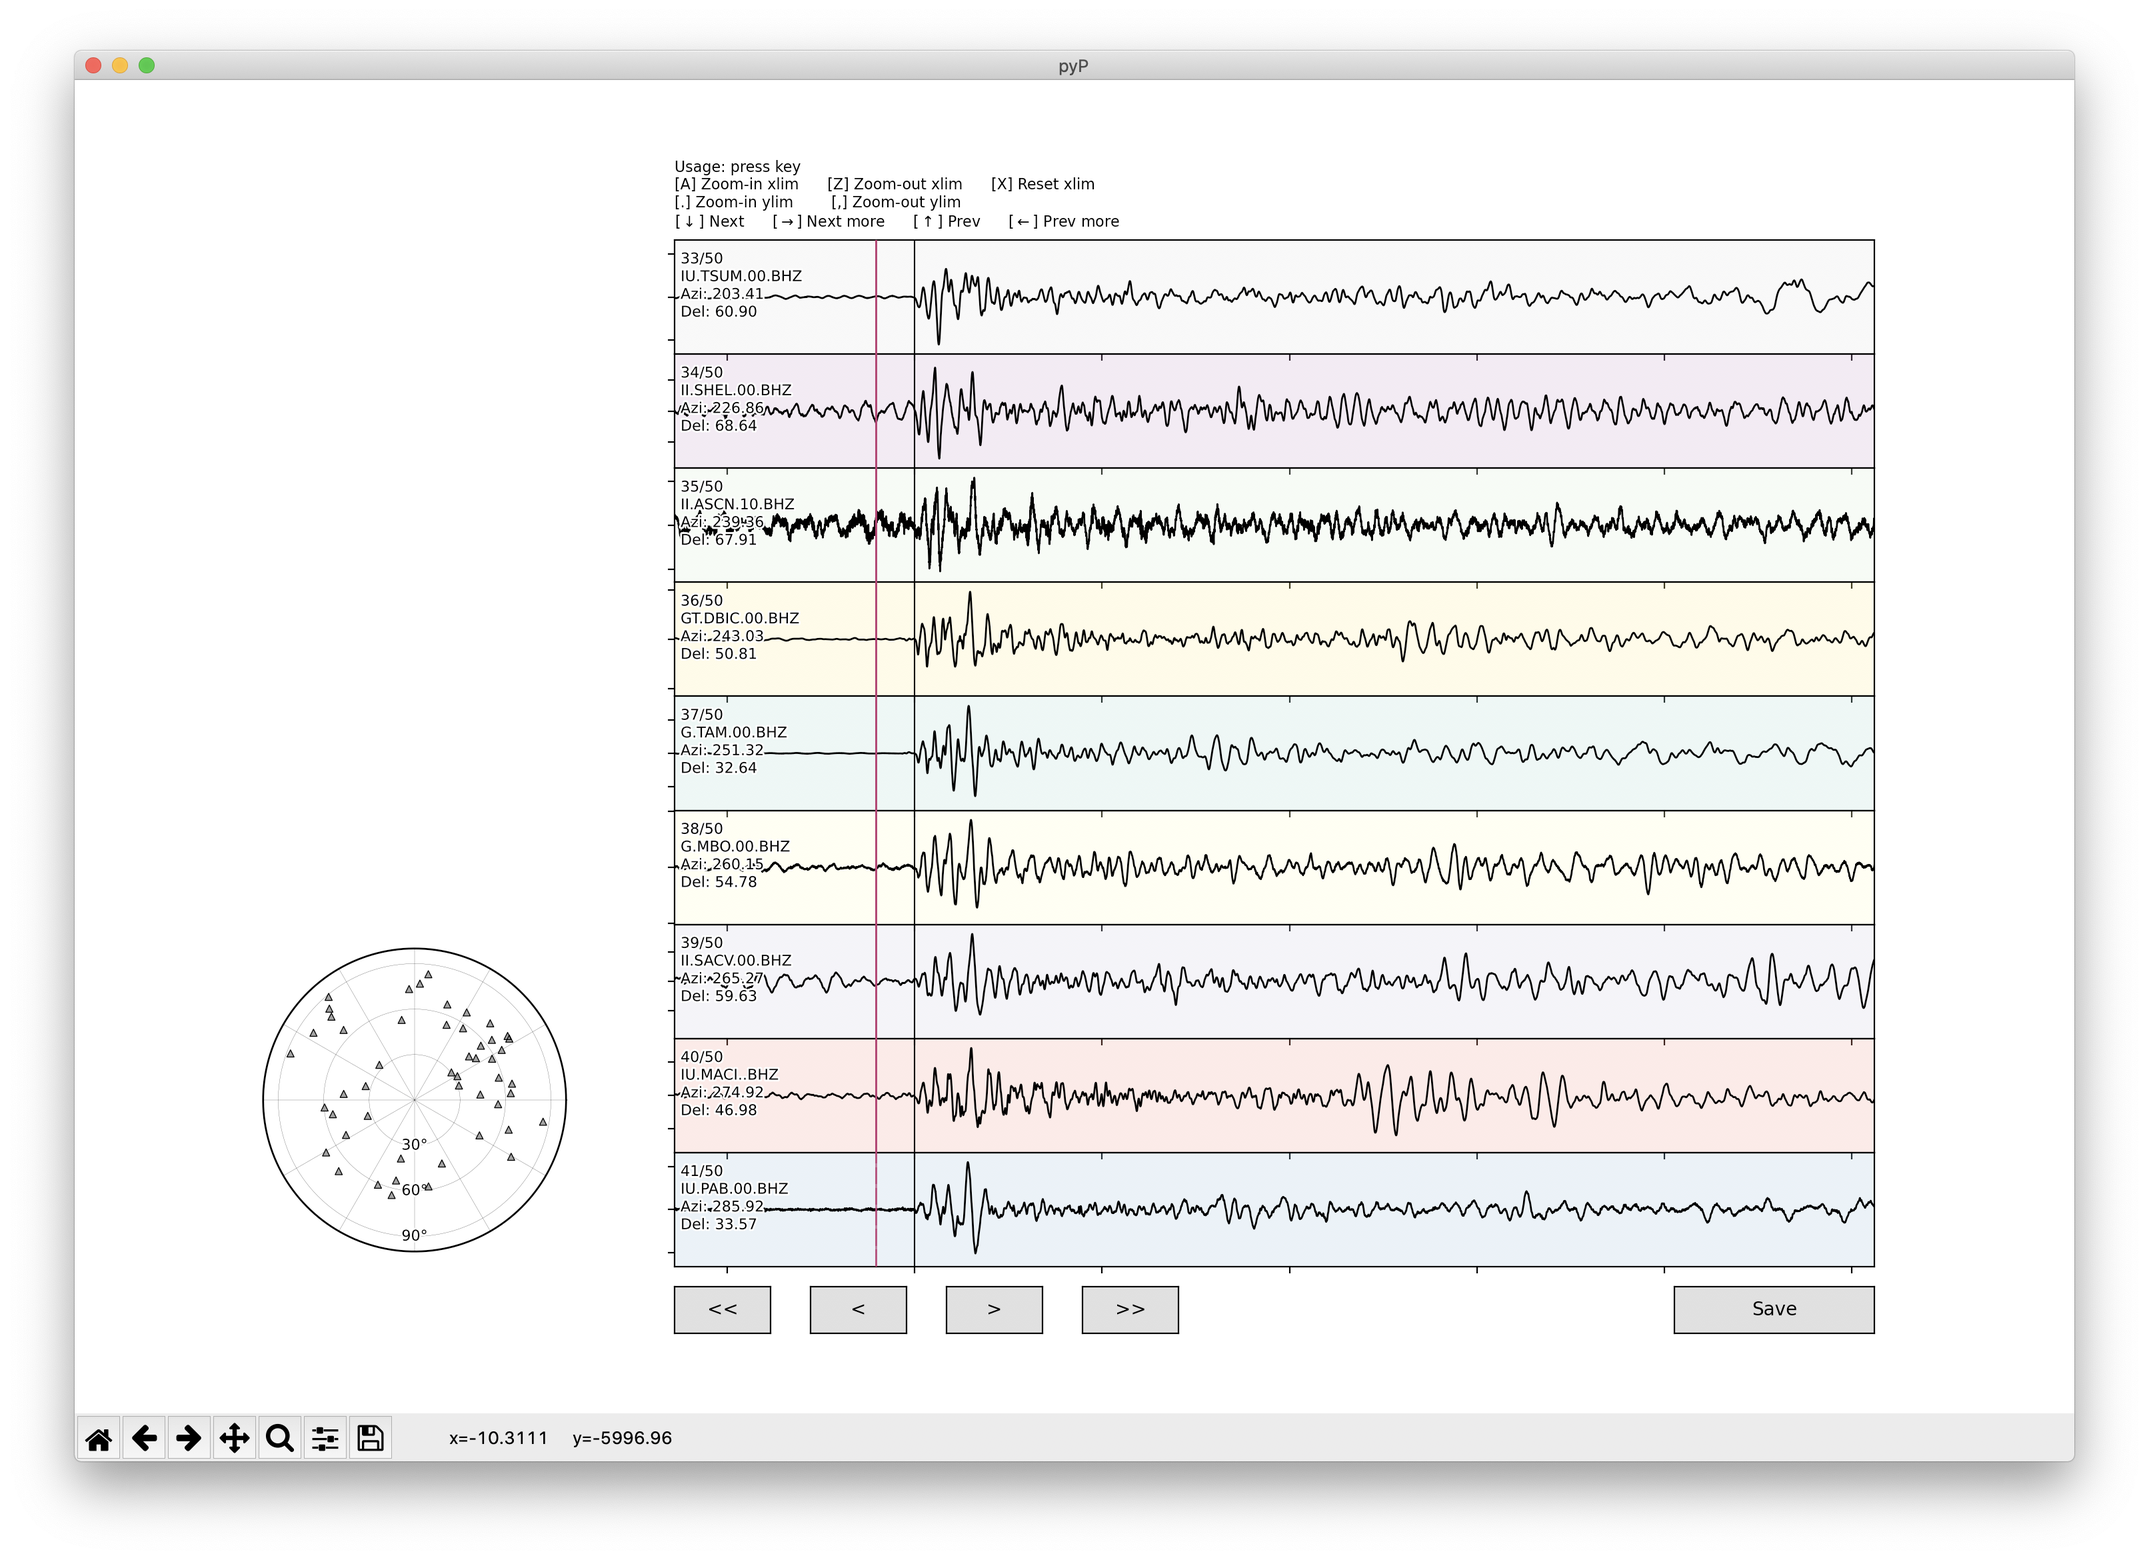
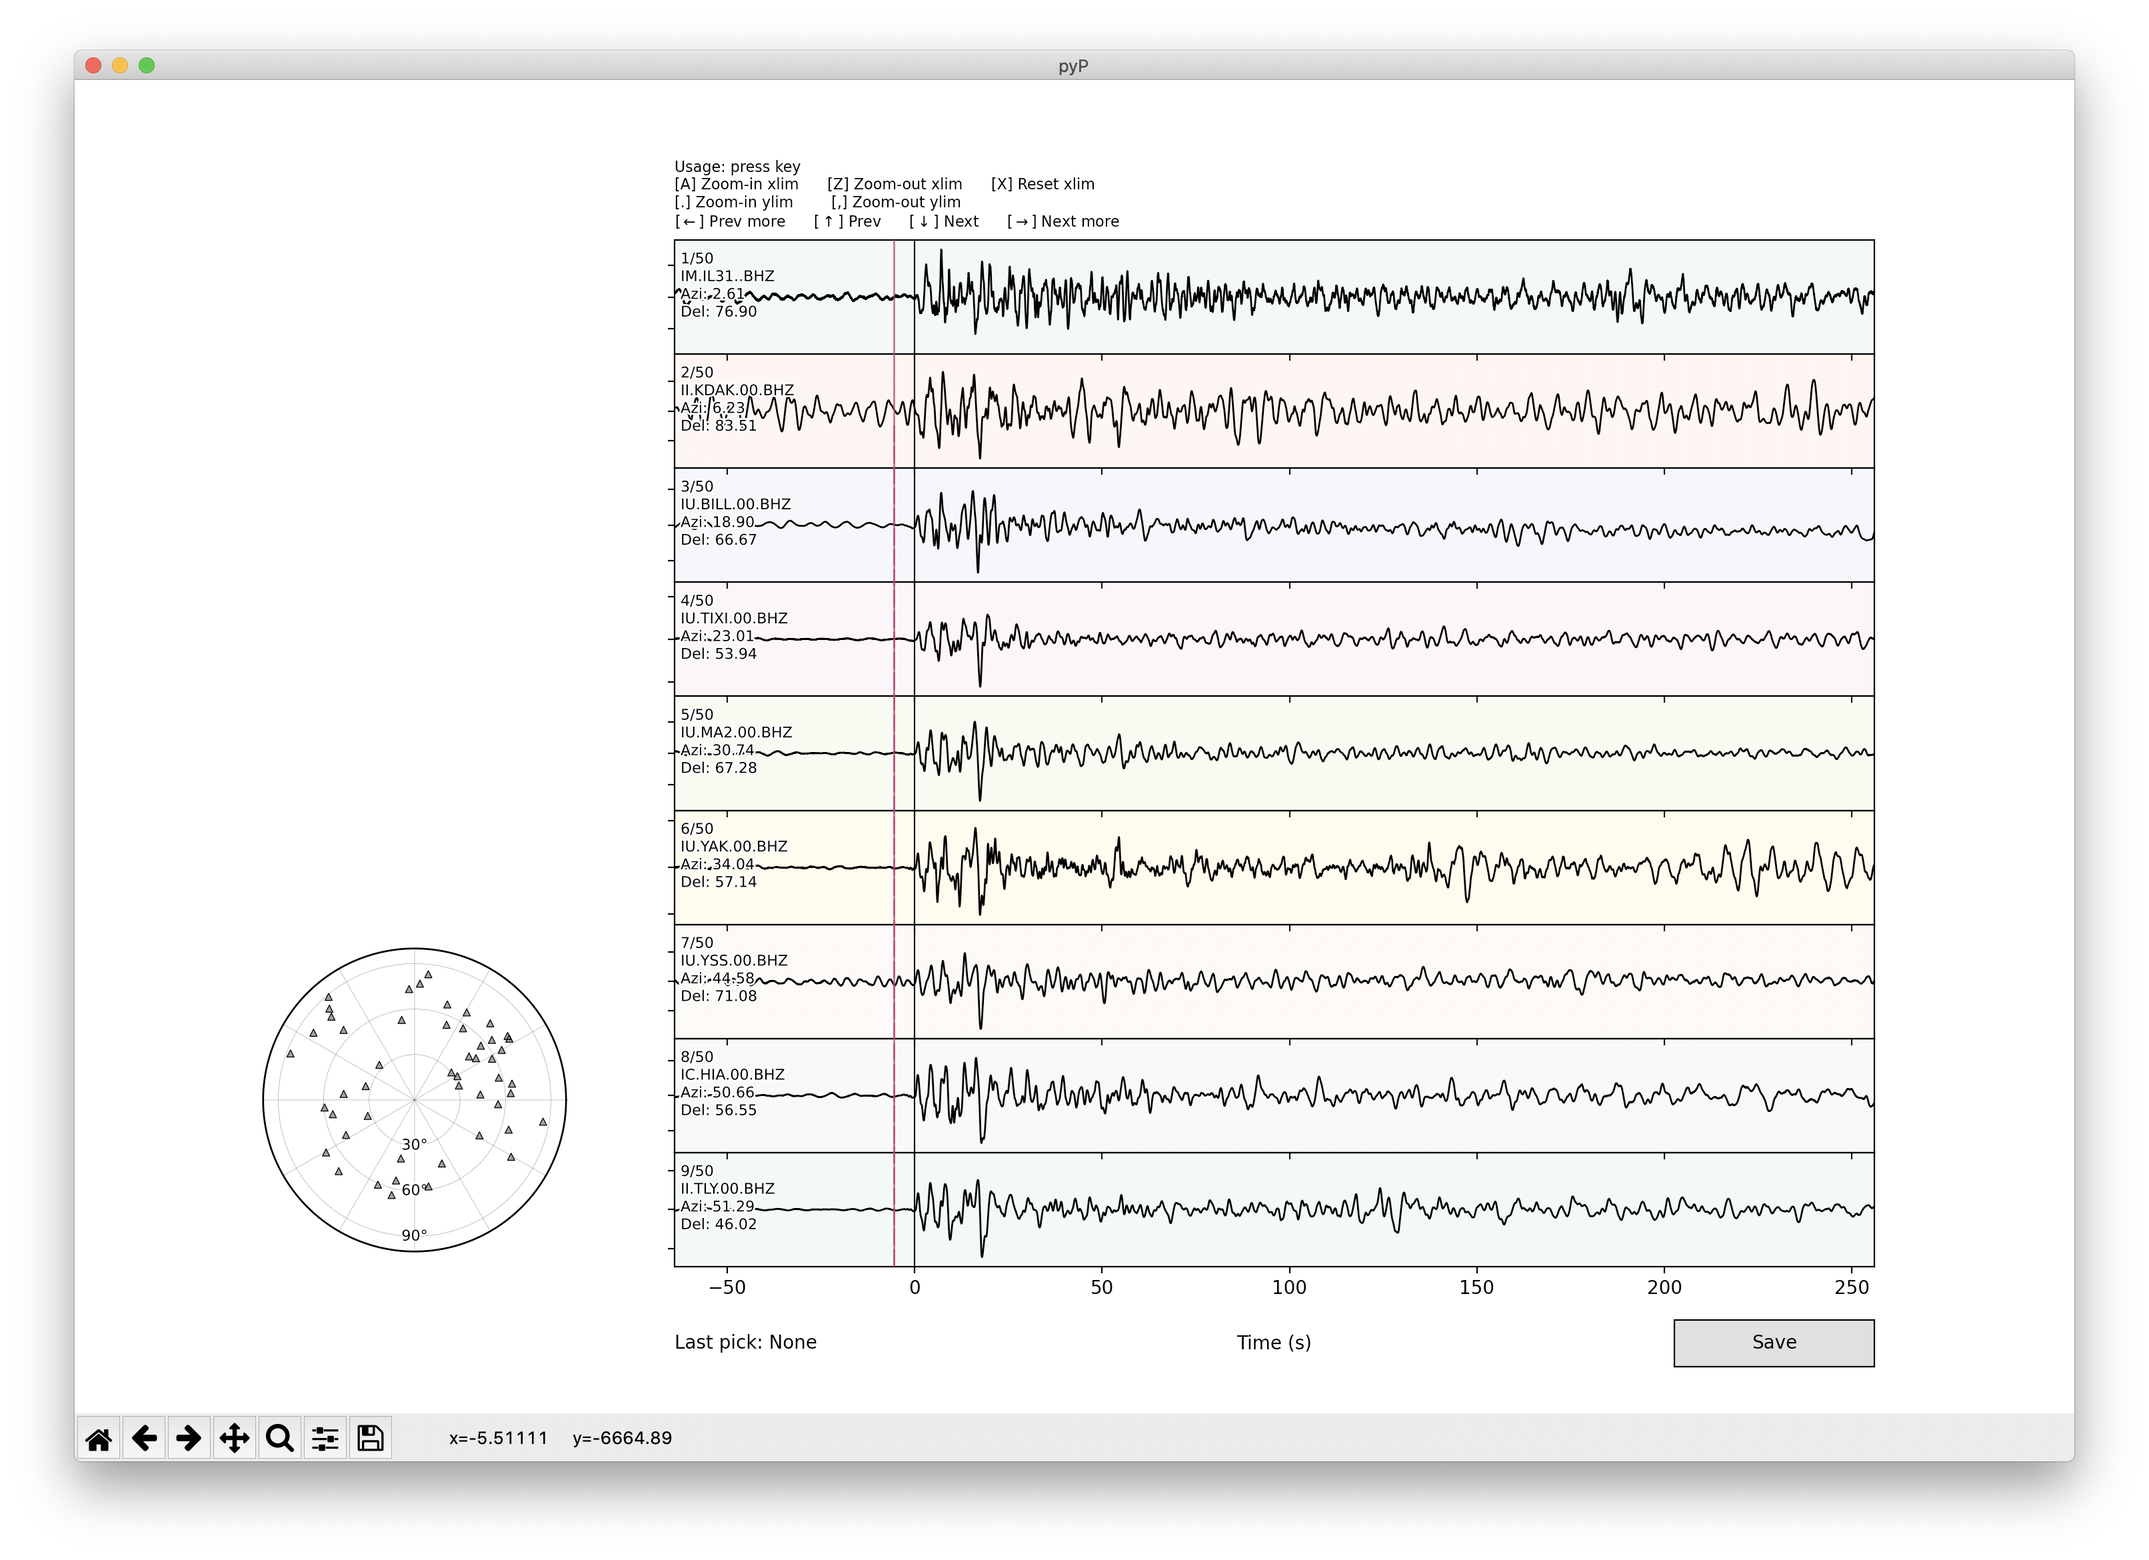
add screenshot

diff --git a/pyP.py b/pyP.py
@@ -8,70 +8,6 @@ class Index(object):
     Switch panel for the waveform traces by clcking the buttons
     '''
     ind = 0
-    def next(self, event):
-        self.ind += 1
-        if self.ind > totalnumtrace-1:
-            self.ind = 0
-        for ax in axs:
-            ax.set_visible(False)
-        axinit = self.ind
-        gsind = 0
-        for j in np.arange(axinit, axinit+worknumtrace, 1):
-            if j > totalnumtrace-1:
-                j = j - totalnumtrace
-            axs[j].set_visible(True)
-            axs[j].set_position(gs[gsind].get_position(fig))
-            gsind += 1
-        fig.canvas.draw()
-
-    def nextFurther(self, event):
-        self.ind += worknumtrace - 1
-        if self.ind > totalnumtrace-1:
-            self.ind = self.ind - totalnumtrace
-        for ax in axs:
-            ax.set_visible(False)
-        axinit = self.ind
-        gsind = 0
-        for j in np.arange(axinit, axinit+worknumtrace, 1):
-            if j > totalnumtrace-1:
-                j = j - totalnumtrace
-            axs[j].set_visible(True)
-            axs[j].set_position(gs[gsind].get_position(fig))
-            gsind += 1
-        fig.canvas.draw()
-
-    def prev(self, event):
-        self.ind -= 1
-        if self.ind < 0:
-            self.ind = totalnumtrace-1
-        for ax in axs:
-            ax.set_visible(False)
-        axinit = self.ind
-        gsind = 0
-        for j in np.arange(axinit, axinit+worknumtrace, 1):
-            if j > totalnumtrace-1:
-                j = j - totalnumtrace
-            axs[j].set_visible(True)
-            axs[j].set_position(gs[gsind].get_position(fig))
-            gsind += 1
-        fig.canvas.draw()
-
-    def prevFurther(self, event):
-        self.ind -= worknumtrace - 1
-        if self.ind < 0:
-            self.ind = self.ind + totalnumtrace
-        for ax in axs:
-            ax.set_visible(False)
-        axinit = self.ind
-        gsind = 0
-        for j in np.arange(axinit, axinit+worknumtrace, 1):
-            if j > totalnumtrace-1:
-                j = j - totalnumtrace
-            axs[j].set_visible(True)
-            axs[j].set_position(gs[gsind].get_position(fig))
-            gsind += 1
-        fig.canvas.draw()
-
     def nextKey(self, event):
         if event.key == 'down':
             self.ind += 1
@@ -79,6 +15,7 @@ class Index(object):
                 self.ind = 0
             for ax in axs:
                 ax.set_visible(False)
+                ax.tick_params(labelbottom=False)
             axinit = self.ind
             gsind = 0
             for j in np.arange(axinit, axinit+worknumtrace, 1):
@@ -87,6 +24,8 @@ class Index(object):
                 axs[j].set_visible(True)
                 axs[j].set_position(gs[gsind].get_position(fig))
                 gsind += 1
+
+            axs[j].tick_params(labelbottom=True)
             fig.canvas.draw()
 
     def nextFurtherKey(self, event):
@@ -96,6 +35,7 @@ class Index(object):
                 self.ind = self.ind - totalnumtrace
             for ax in axs:
                 ax.set_visible(False)
+                ax.tick_params(labelbottom=False)
             axinit = self.ind
             gsind = 0
             for j in np.arange(axinit, axinit+worknumtrace, 1):
@@ -104,6 +44,7 @@ class Index(object):
                 axs[j].set_visible(True)
                 axs[j].set_position(gs[gsind].get_position(fig))
                 gsind += 1
+            axs[j].tick_params(labelbottom=True)
             fig.canvas.draw()
 
     def prevKey(self, event):
@@ -113,6 +54,7 @@ class Index(object):
                 self.ind = totalnumtrace-1
             for ax in axs:
                 ax.set_visible(False)
+                ax.tick_params(labelbottom=False)
             axinit = self.ind
             gsind = 0
             for j in np.arange(axinit, axinit+worknumtrace, 1):
@@ -121,6 +63,7 @@ class Index(object):
                 axs[j].set_visible(True)
                 axs[j].set_position(gs[gsind].get_position(fig))
                 gsind += 1
+            axs[j].tick_params(labelbottom=True)
             fig.canvas.draw()
 
     def prevFurtherKey(self, event):
@@ -130,6 +73,7 @@ class Index(object):
                 self.ind = self.ind + totalnumtrace
             for ax in axs:
                 ax.set_visible(False)
+                ax.tick_params(labelbottom=False)
             axinit = self.ind
             gsind = 0
             for j in np.arange(axinit, axinit+worknumtrace, 1):
@@ -138,6 +82,7 @@ class Index(object):
                 axs[j].set_visible(True)
                 axs[j].set_position(gs[gsind].get_position(fig))
                 gsind += 1
+            axs[j].tick_params(labelbottom=True)
             fig.canvas.draw()
 
 def oncpick(event):
@@ -153,6 +98,9 @@ def oncpick(event):
             axind = fig.axes.index(ax)
             tmpx = ax.lines[0].get_xdata()
             amarkerlist[axind] = -tmpx[0] # arrival time relative to data starttime
+            fig.texts[-2].set_text('Last pick: '+str(stanamelist[axind])+' '+str('{:.2f}'.format(-tmpx[0]))+' s')
+            fig.texts[-2].set_color('C'+str(axind))
+
     elif event.inaxes and event.inaxes == axbutton:
         if event.button == 1: # Left click only
             ax = event.inaxes
@@ -234,76 +182,73 @@ def aziequi(ax, azilist, dellist):
     ax.set_yticks([])
     return sc
 
+def updateColorCycle(cmapkey):
+    cmap = plt.get_cmap(cmapkey, 8)
+    custom_color_cycle = [ str(mpl.colors.rgb2hex(cmap(i)[:3])) for i in range(cmap.N) ]
+    plt.rc('axes', prop_cycle=(cycler(color=custom_color_cycle)))
+
+def checkArgparse():
+    # Argument check
+    parser = argparse.ArgumentParser(description='pyP: Python based P-arrival picking tool',
+                                    usage='test.py [-h] displayNum sacfiles elat elon'+\
+                                    '\n\nExample:'+\
+                                    '\n>>> python pyP.py 7 "../__bak/pyPick/SACfiles/II*.SAC,../__bak/pyPick/SACfiles/II.*.SAC" 36.11 140.10\n ')
+    parser.add_argument('displayNum', help='Number of traces shown in display (e.g., 7)', type=int)
+    parser.add_argument('sacfiles', help='SAC files you want to pick P arrival (e.g., "./*.SAC"). comma-separated list is available. *Do not forget quotation marks!', type=str)
+    parser.add_argument('elat', help='Latitude of epicentre (for station azimuth)', type=float)
+    parser.add_argument('elon', help='Longitude of epicentre (for station azimuth)', type=float)
+    args = parser.parse_args()
+    return args
+
+def loadStream(args):
+    tmplist = [x.strip() for x in args.sacfiles.split(',')]
+    st = read(tmplist[0])
+    for sacfiles in tmplist[1:]:
+        st += read(sacfiles)
+    elat, elon = float(args.elat), float(args.elon) #38.392, 39.085
+    for j in range(len(st)):
+        trace = st[j].copy()
+        tmp = geod.Inverse(elat, elon, trace.stats.sac.stla, trace.stats.sac.stlo)
+        azi = tmp['azi1']
+        if azi < 0:
+            azi = 360 + azi
+        trace.stats.sac.user0 = azi
+        trace.stats.sac.user1 = tmp['a12']
+        st[j] = trace
+    st.traces.sort(key=lambda x: x.stats.sac.user0) # sort by azimuth
+    return st
+
 import sys
-import glob
 import argparse
-import mplcursors
+import glob
+import matplotlib.pyplot as plt
 import numpy as np
 import pandas as pd
 from obspy import read
 import matplotlib as mpl
 from cycler import cycler
+updateColorCycle('Set2')
 from datetime import datetime
-import matplotlib.pyplot as plt
 from matplotlib.gridspec import GridSpec
 from geographiclib.geodesic import Geodesic
-import matplotlib.patheffects as path_effects
-from matplotlib.widgets import Button, MultiCursor
-cmap = plt.get_cmap('Set3', 12)
-custom_color_cycle = [ str(mpl.colors.rgb2hex(cmap(i)[:3])) for i in range(cmap.N) ]
-plt.rc('axes', prop_cycle=(cycler(color=custom_color_cycle)))
 geod = Geodesic.WGS84
-textpe = [path_effects.Stroke(linewidth=2, foreground='w', alpha=1), path_effects.Normal()]
-xmin0 = -100
-xmax0 = 400
+from matplotlib.widgets import Button, MultiCursor
+import matplotlib.patheffects as path_effects
 
-# Argument check
-parser = argparse.ArgumentParser(description='pyP: Python based P-arrival picking tool')
-parser.add_argument('arg1', help='Number of traces shown in display (e.g., 7)')
-parser.add_argument('arg2', help='SAC files you want to pick P arrival (e.g., "./*.SAC") *Do not forget quotation marks!')
-parser.add_argument('arg3', help='Latitude of epicentre')
-parser.add_argument('arg4', help='Longitude of epicentre')
-args = parser.parse_args()
-try:
-    worknumtrace = int(args.arg1)
-except ValueError:
-    worknumtrace = 7
-    sacfiles = args.arg1
-    print('')
-    print('  Caution: You did not input the number of traces shown at once.')
-    print('           --> I set 7 as the number of traces on display at once: `worknumtrace`.')
-    print('  Next time, input the number of traces you like as:')
-    print('  > python pyP.py 7 "./*.SAC"')
-    print('')
-sacfiles = args.arg2
-if len(glob.glob(sacfiles)) == 0:
-    print('')
-    print('  Error: No SAC files identified. Pleae specify the correct SAC files. Stopped.')
-    print('')
-    sys.exit(1)
+# Check parsed arguments, and load data
+args = checkArgparse()
+st = loadStream(args)
 
-# Load SAC files and sort traces based on station azimuth
-st = read(sacfiles)
-elat, elon = float(args.arg3), float(args.arg4) #38.392, 39.085
-for j in range(len(st)):
-    trace = st[j].copy()
-    tmp = geod.Inverse(elat, elon, trace.stats.sac.stla, trace.stats.sac.stlo)
-    azi = tmp['azi1']
-    if azi < 0:
-        azi = 360 + azi
-    trace.stats.sac.user0 = azi
-    trace.stats.sac.user1 = tmp['a12']
-    st[j] = trace
-st.traces.sort(key=lambda x: x.stats.sac.user0) # sort by azimuth
-
-# Base subplots, which is not shown
-totalnumtrace = len(glob.glob(sacfiles))
+# Base subplots (not shown in display)
+totalnumtrace = len(st)
 fig, axs = plt.subplots(totalnumtrace, figsize=(15, 10))
 fig.subplots_adjust(left=0.3)
+fig.canvas.set_window_title('pyP')
 
+textpe = [path_effects.Stroke(linewidth=2, foreground='w', alpha=1), path_effects.Normal()]
+xmin0, xmax0 = -100, 400
 amarkerlist = np.zeros(totalnumtrace)
-stanamelist = []
-azilist, dellist = [], []
+stanamelist, azilist, dellist = [], [], []
 for j,ax in enumerate(axs.flat):
     trace = st[j].copy()
     amarker = trace.stats.sac.a
@@ -321,42 +266,21 @@ for j,ax in enumerate(axs.flat):
     ymin0 = -max( np.abs(y[ int((amarker+xmin0)*df):int((amarker+xmax0)*df) ]) ) * 1.2
     ymax0 = max( np.abs(y[ int((amarker+xmin0)*df):int((amarker+xmax0)*df) ]) ) * 1.2
     ax.set_ylim(ymin0, ymax0)
-    textlabel = str(j+1)+'/'+str(totalnumtrace)+'\n'+str(trace.stats.network)+'.'+str(trace.stats.station)+'.'+str(trace.stats.location)+'.'+str(trace.stats.channel)
+    textlabel0 = str(j+1)+'/'+str(totalnumtrace)+'\n'+str(trace.stats.network)+'.'+str(trace.stats.station)+'.'+str(trace.stats.location)+'.'+str(trace.stats.channel)
     textlabel1 = '\nAzi: '+str('{:.2f}'.format(trace.stats.sac.user0)) + '\nDel: ' + str('{:.2f}'.format(trace.stats.sac.user1))
-    text = ax.text(xmin0+(xmax0-xmin0)*0.005, ymax0-(ymax0-ymin0)*0.1, textlabel+textlabel1, fontsize=8, ha='left', va='top').set_path_effects(textpe)
+    text = ax.text(xmin0+(xmax0-xmin0)*0.005, ymax0-(ymax0-ymin0)*0.1, textlabel0+textlabel1, fontsize=8, ha='left', va='top').set_path_effects(textpe)
 
     ax.patch.set_facecolor('C'+str(j))
-    ax.patch.set_alpha(0.2)
+    ax.patch.set_alpha(0.1)
     ax.tick_params(labelleft=False)
     ax.tick_params(labelbottom=False)
 
-
-# Display canvus / Interactive click actions
-gs = GridSpec(worknumtrace,1, hspace=0)
+# Display interactive canvus, define click actions
+worknumtrace = args.displayNum
+gs = GridSpec(worknumtrace,1,hspace=0)
 callback = Index()
-
-axp = axs[-1].get_position()
-tmpw = axp.width*0.08
-axprevFurther = plt.axes([axp.x0, axp.y0-0.05, tmpw, 0.035])
-axprev = plt.axes([axp.x0+tmpw+0.02, axp.y0-0.05, tmpw, 0.035])
-axnext = plt.axes([axp.x0+tmpw*2+0.02*2, axp.y0-0.05, tmpw, 0.035])
-axnextFurther = plt.axes([axp.x0+tmpw*3+0.02*3, axp.y0-0.05, tmpw, 0.035])
-
-bprevFurther = Button(axprevFurther, '<<')
-bprevFurther.on_clicked(callback.prevFurther)
-
-bprev = Button(axprev, '<')
-bprev.on_clicked(callback.prev)
-
-bnext = Button(axnext, '>')
-bnext.on_clicked(callback.next)
-
-bnextFurther = Button(axnextFurther, '>>')
-bnextFurther.on_clicked(callback.nextFurther)
-
 kpnext = fig.canvas.mpl_connect('key_press_event', callback.nextKey)
 kpnextFurther = fig.canvas.mpl_connect('key_press_event', callback.nextFurtherKey)
-
 kpprev = fig.canvas.mpl_connect('key_press_event', callback.prevKey)
 kpprevFurther = fig.canvas.mpl_connect('key_press_event', callback.prevFurtherKey)
 
@@ -371,11 +295,12 @@ for ax in axs:
 for j in np.arange(0, worknumtrace, 1):
     axs[j].set_visible(True)
     axs[j].set_position(gs[j].get_position(fig))
+axs[j].tick_params(labelbottom=True)
 
-# Show usage at top
+# Usage at top
 axp = axs[0].get_position()
 usagetext = 'Usage: press key\n[A] Zoom-in xlim      [Z] Zoom-out xlim      [X] Reset xlim\n[.] Zoom-in ylim        [,] Zoom-out ylim\n'+\
-r'[$\downarrow$] Next      [$\rightarrow$] Next more      [$\uparrow$] Prev      [$\leftarrow$] Prev more'
+r'[$\leftarrow$] Prev more      [$\uparrow$] Prev      [$\downarrow$] Next      [$\rightarrow$] Next more'
 fig.text(axp.x0, axp.y1+0.01, usagetext, size=8)
 
 # Station map
@@ -384,12 +309,12 @@ axstamap = fig.add_axes([axp.x0-0.255, axp.y0, 0.25, 0.25])
 axstamap.set_aspect(1)
 sc = aziequi(axstamap, azilist, dellist)
 
-# Save function (save amarker list in log.csv)
-axbutton = fig.add_axes([axp.x1-0.1, axp.y0-0.05, 0.1, 0.035])
-axp = axbutton.get_position()
-fig.text(axp.x0-0.01, axp.y0+axp.height/2, '', ha='right', va='center')
+# Save function (save amarker list in log.csv) and some information
+axbutton = fig.add_axes([axp.x1-0.1, axp.y0-0.075, 0.1, 0.035])
+axpb = axbutton.get_position()
+fig.text(axp.x0+(axp.width/2), axpb.y0+axpb.height/2, 'Time (s)', ha='center', va='center')
+fig.text(axp.x0, axpb.y0+axpb.height/2, 'Last pick: None', ha='left', va='center')
+fig.text(axpb.x0-0.01, axpb.y0+axpb.height/2, '', ha='right', va='center')
 bsave = Button(axbutton, 'Save')
-
-fig.canvas.set_window_title('pyP')
 
 plt.show()
